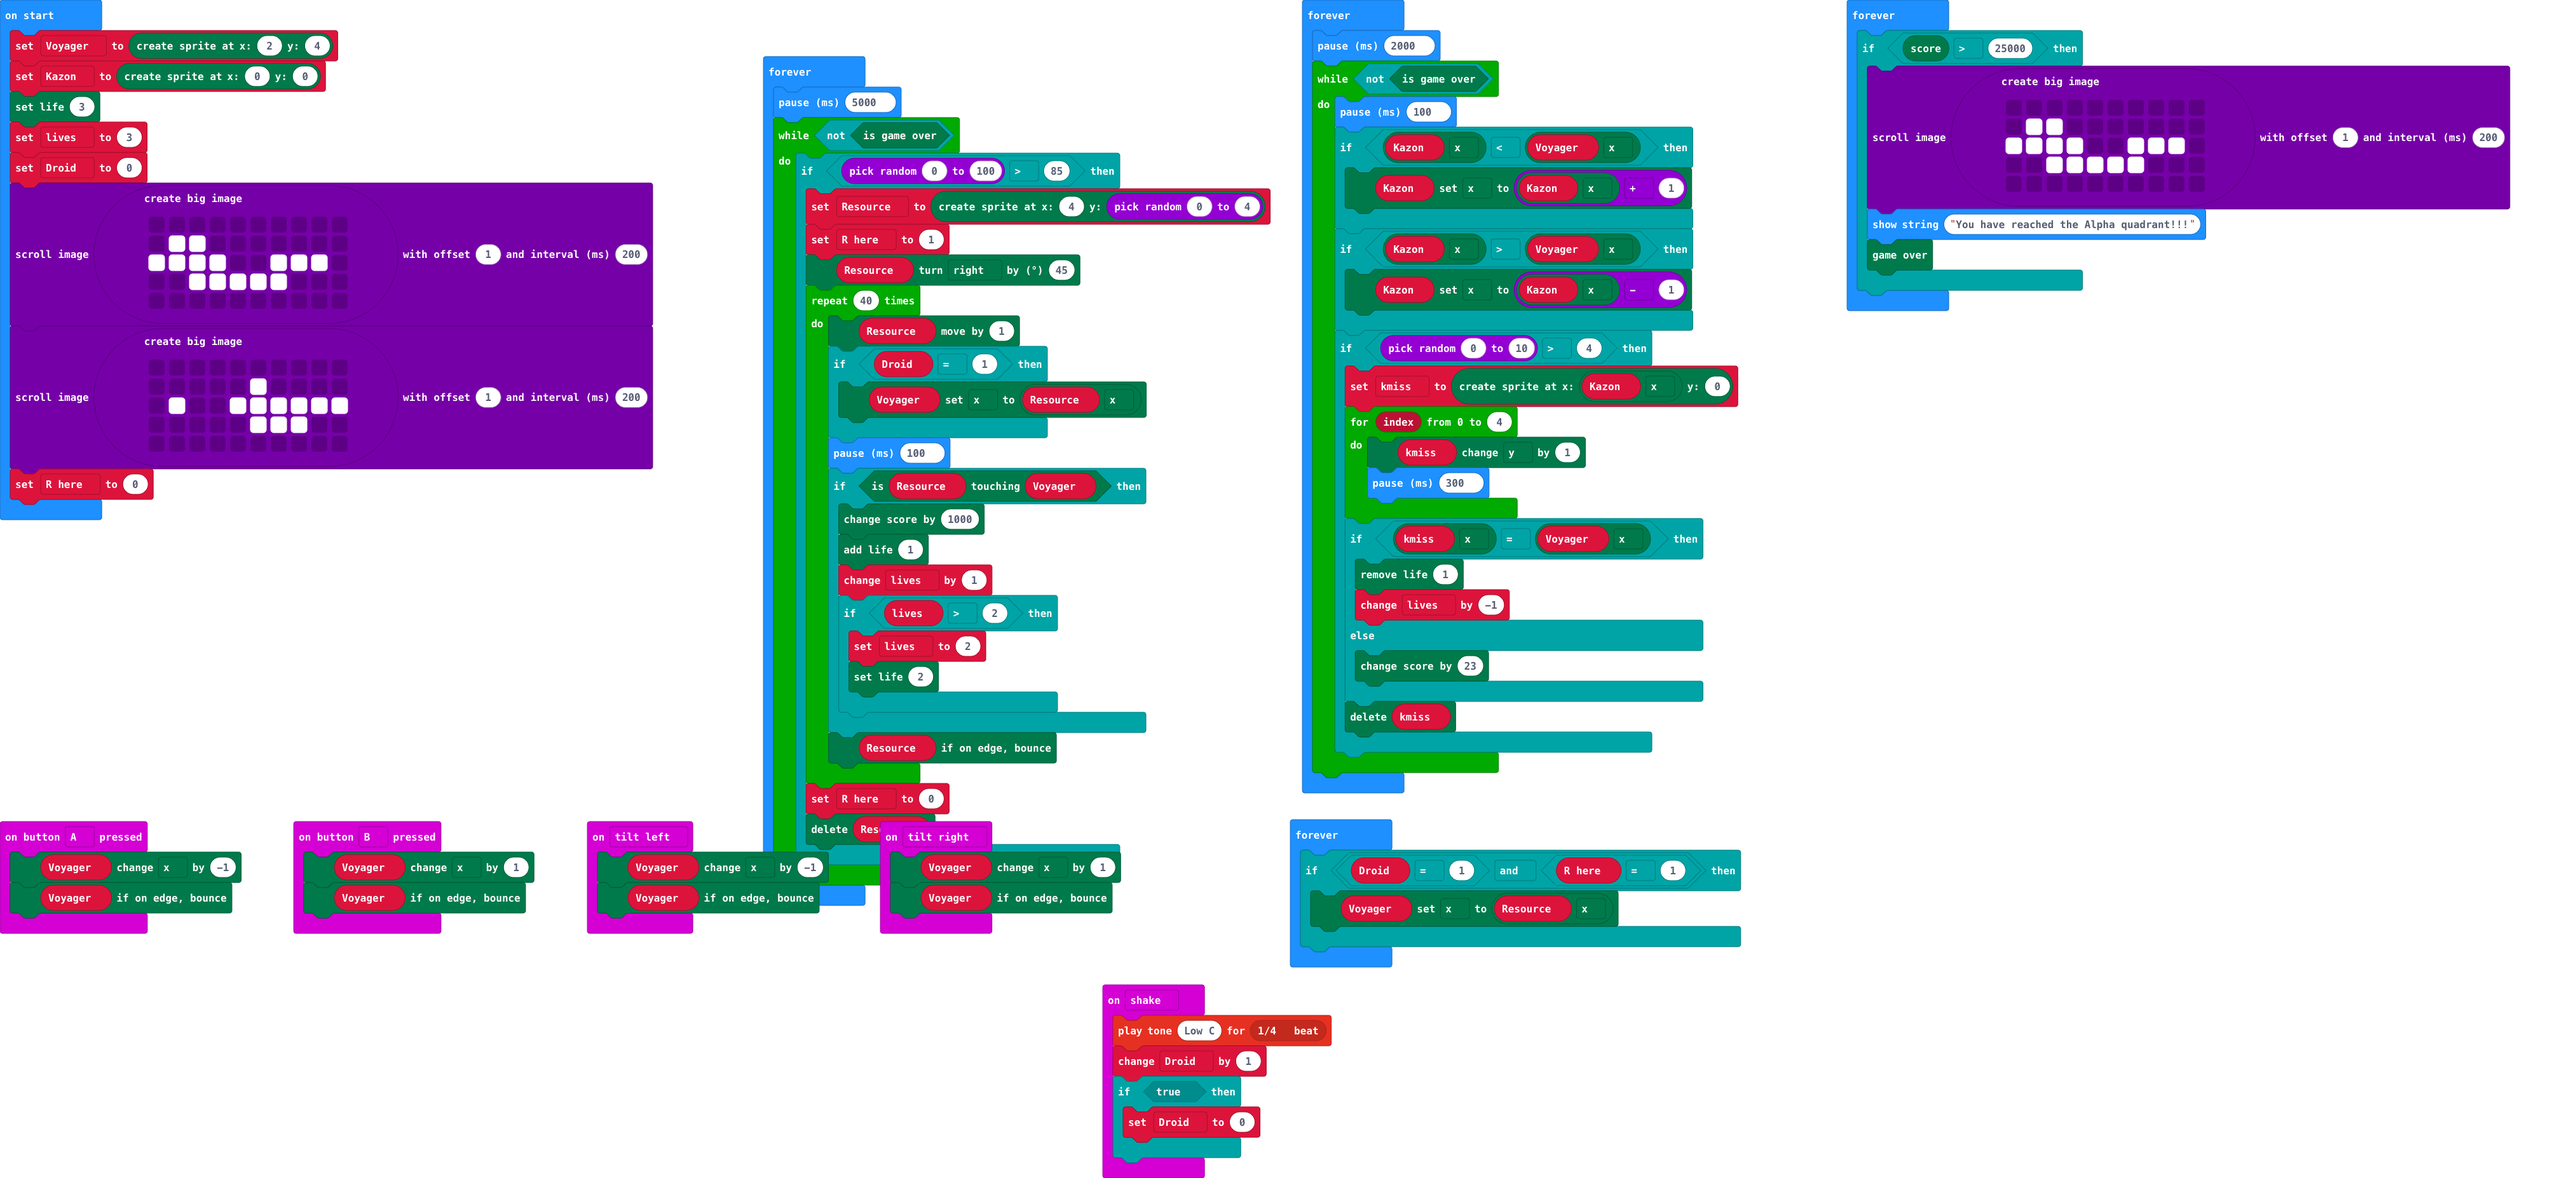
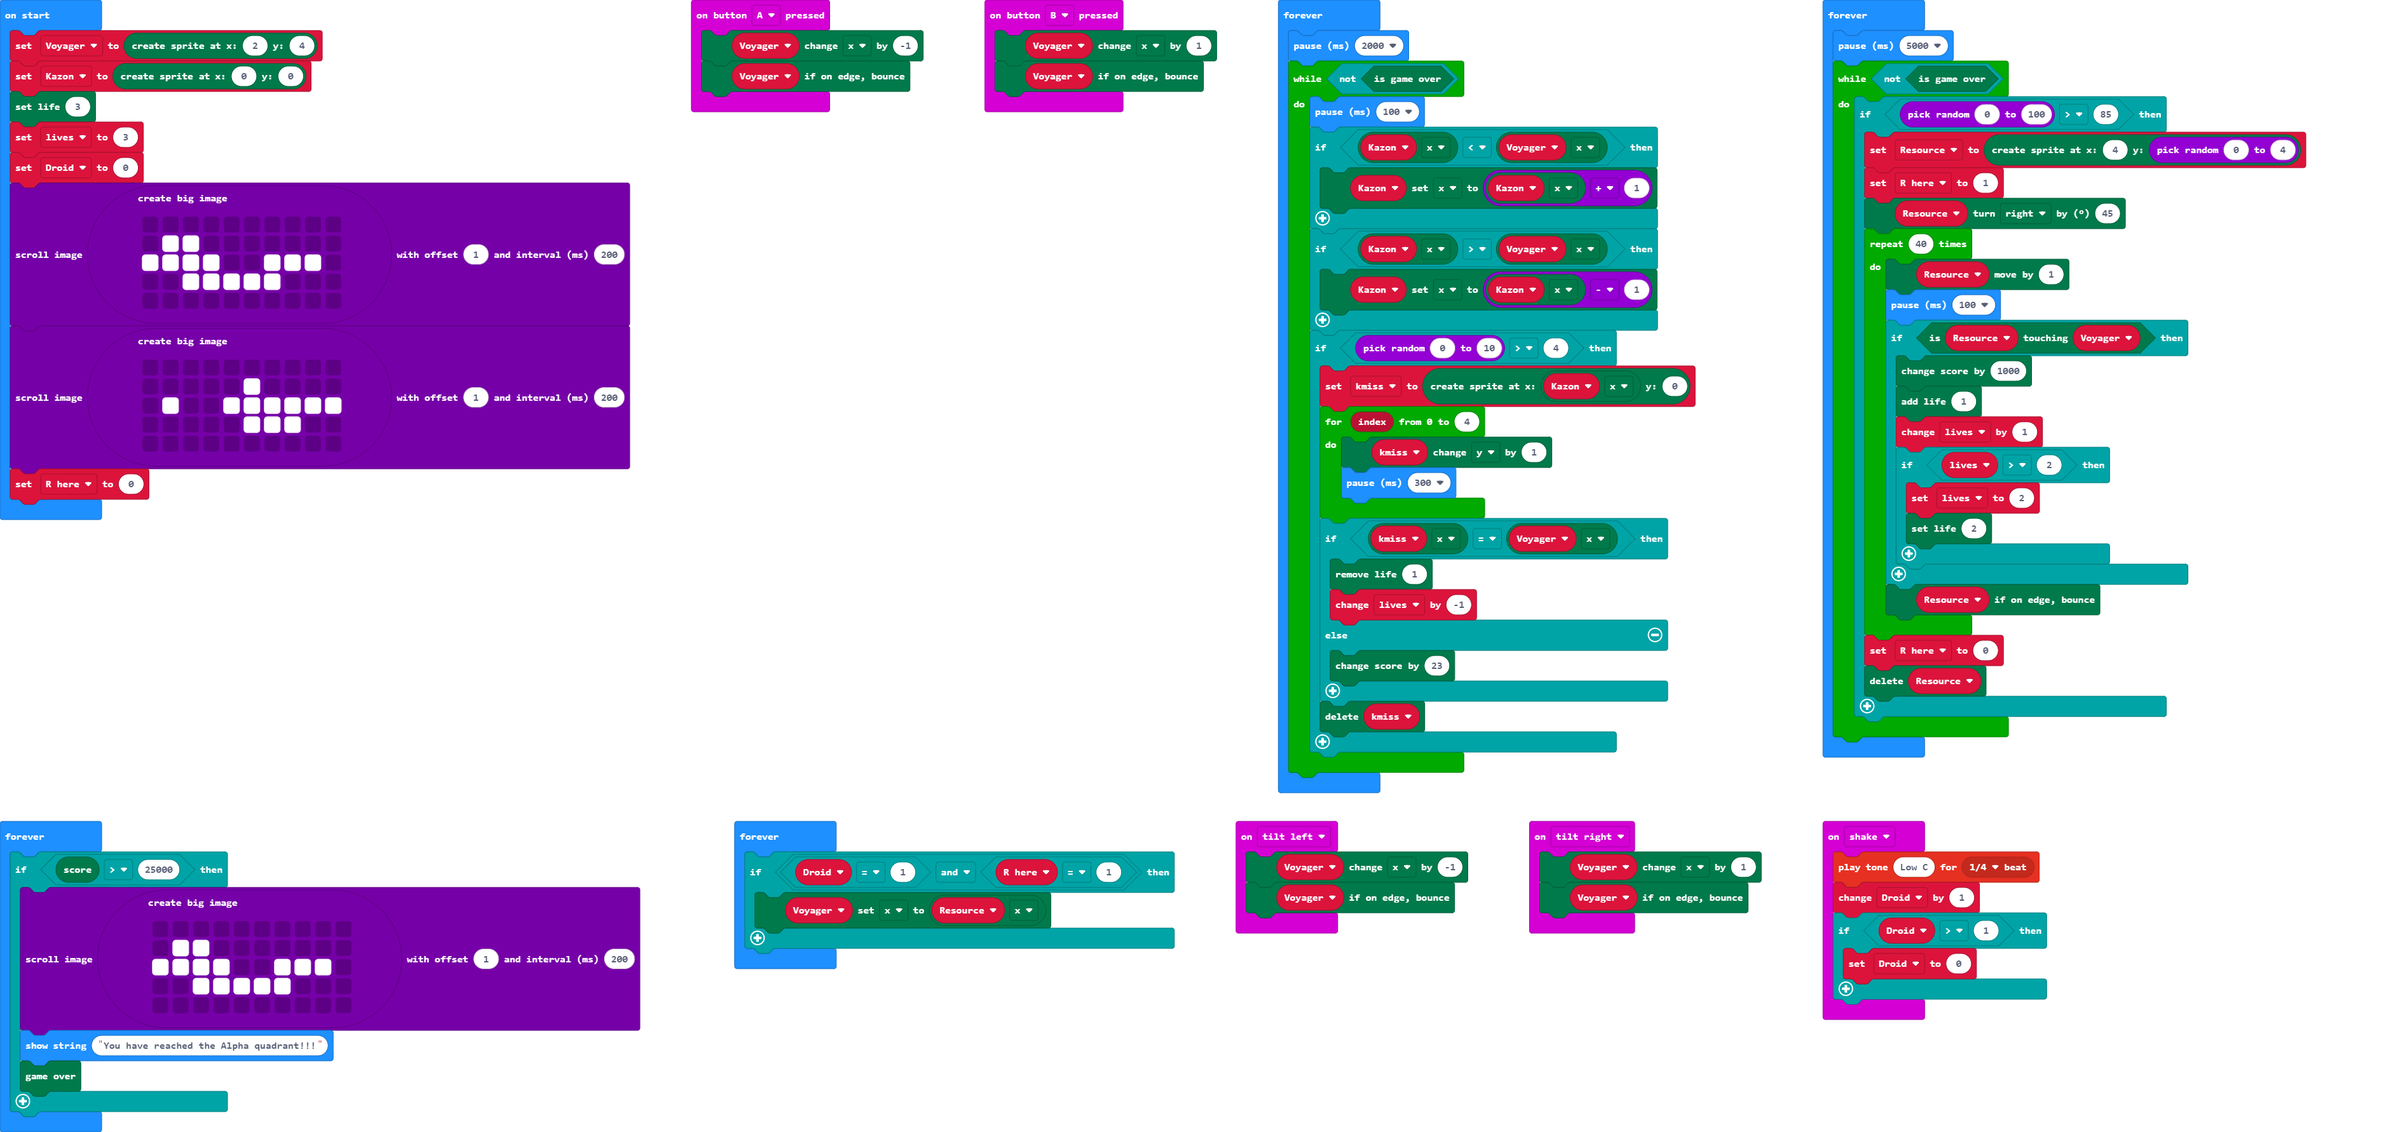
Update main.blocks, main.ts

diff --git a/main.ts b/main.ts
@@ -13,7 +13,7 @@ input.onButtonPressed(Button.B, function () {
 input.onGesture(Gesture.Shake, function () {
     music.playTone(131, music.beat(BeatFraction.Quarter))
     Droid += 1
-    if (true) {
+    if (Droid > 1) {
         Droid = 0
     }
 })
@@ -80,9 +80,6 @@ basic.forever(function () {
             Resource.turn(Direction.Right, 45)
             for (let index = 0; index < 40; index++) {
                 Resource.move(1)
-                if (Droid == 1) {
-                    Voyager.set(LedSpriteProperty.X, Resource.get(LedSpriteProperty.X))
-                }
                 basic.pause(100)
                 if (Resource.isTouching(Voyager)) {
                     game.addScore(1000)
